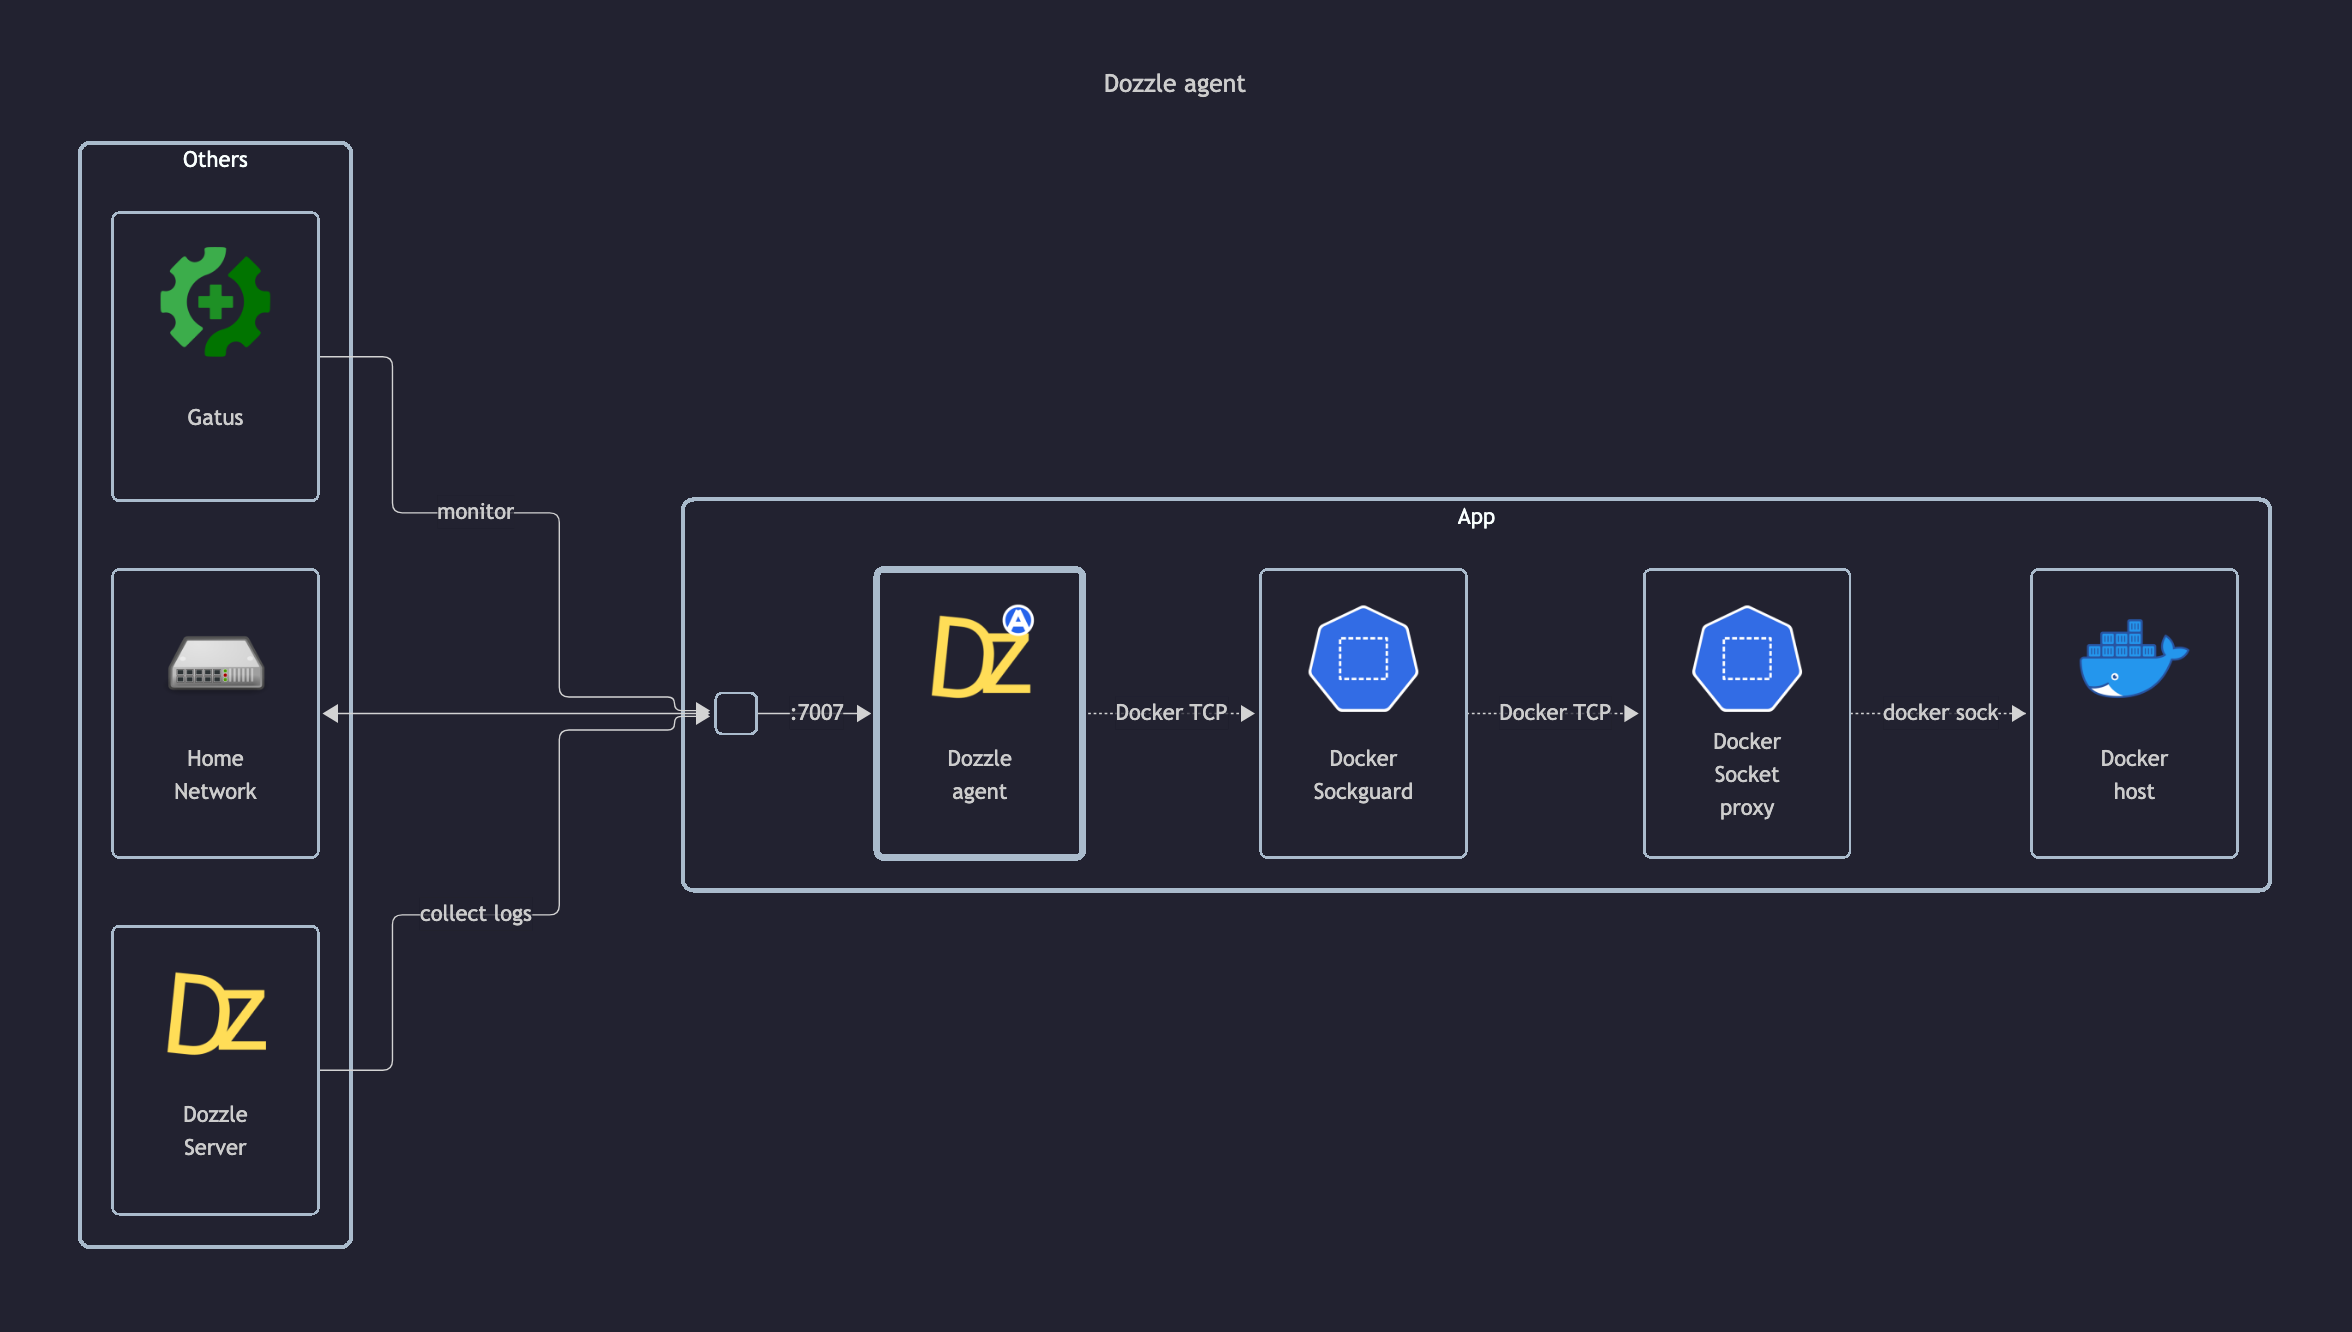
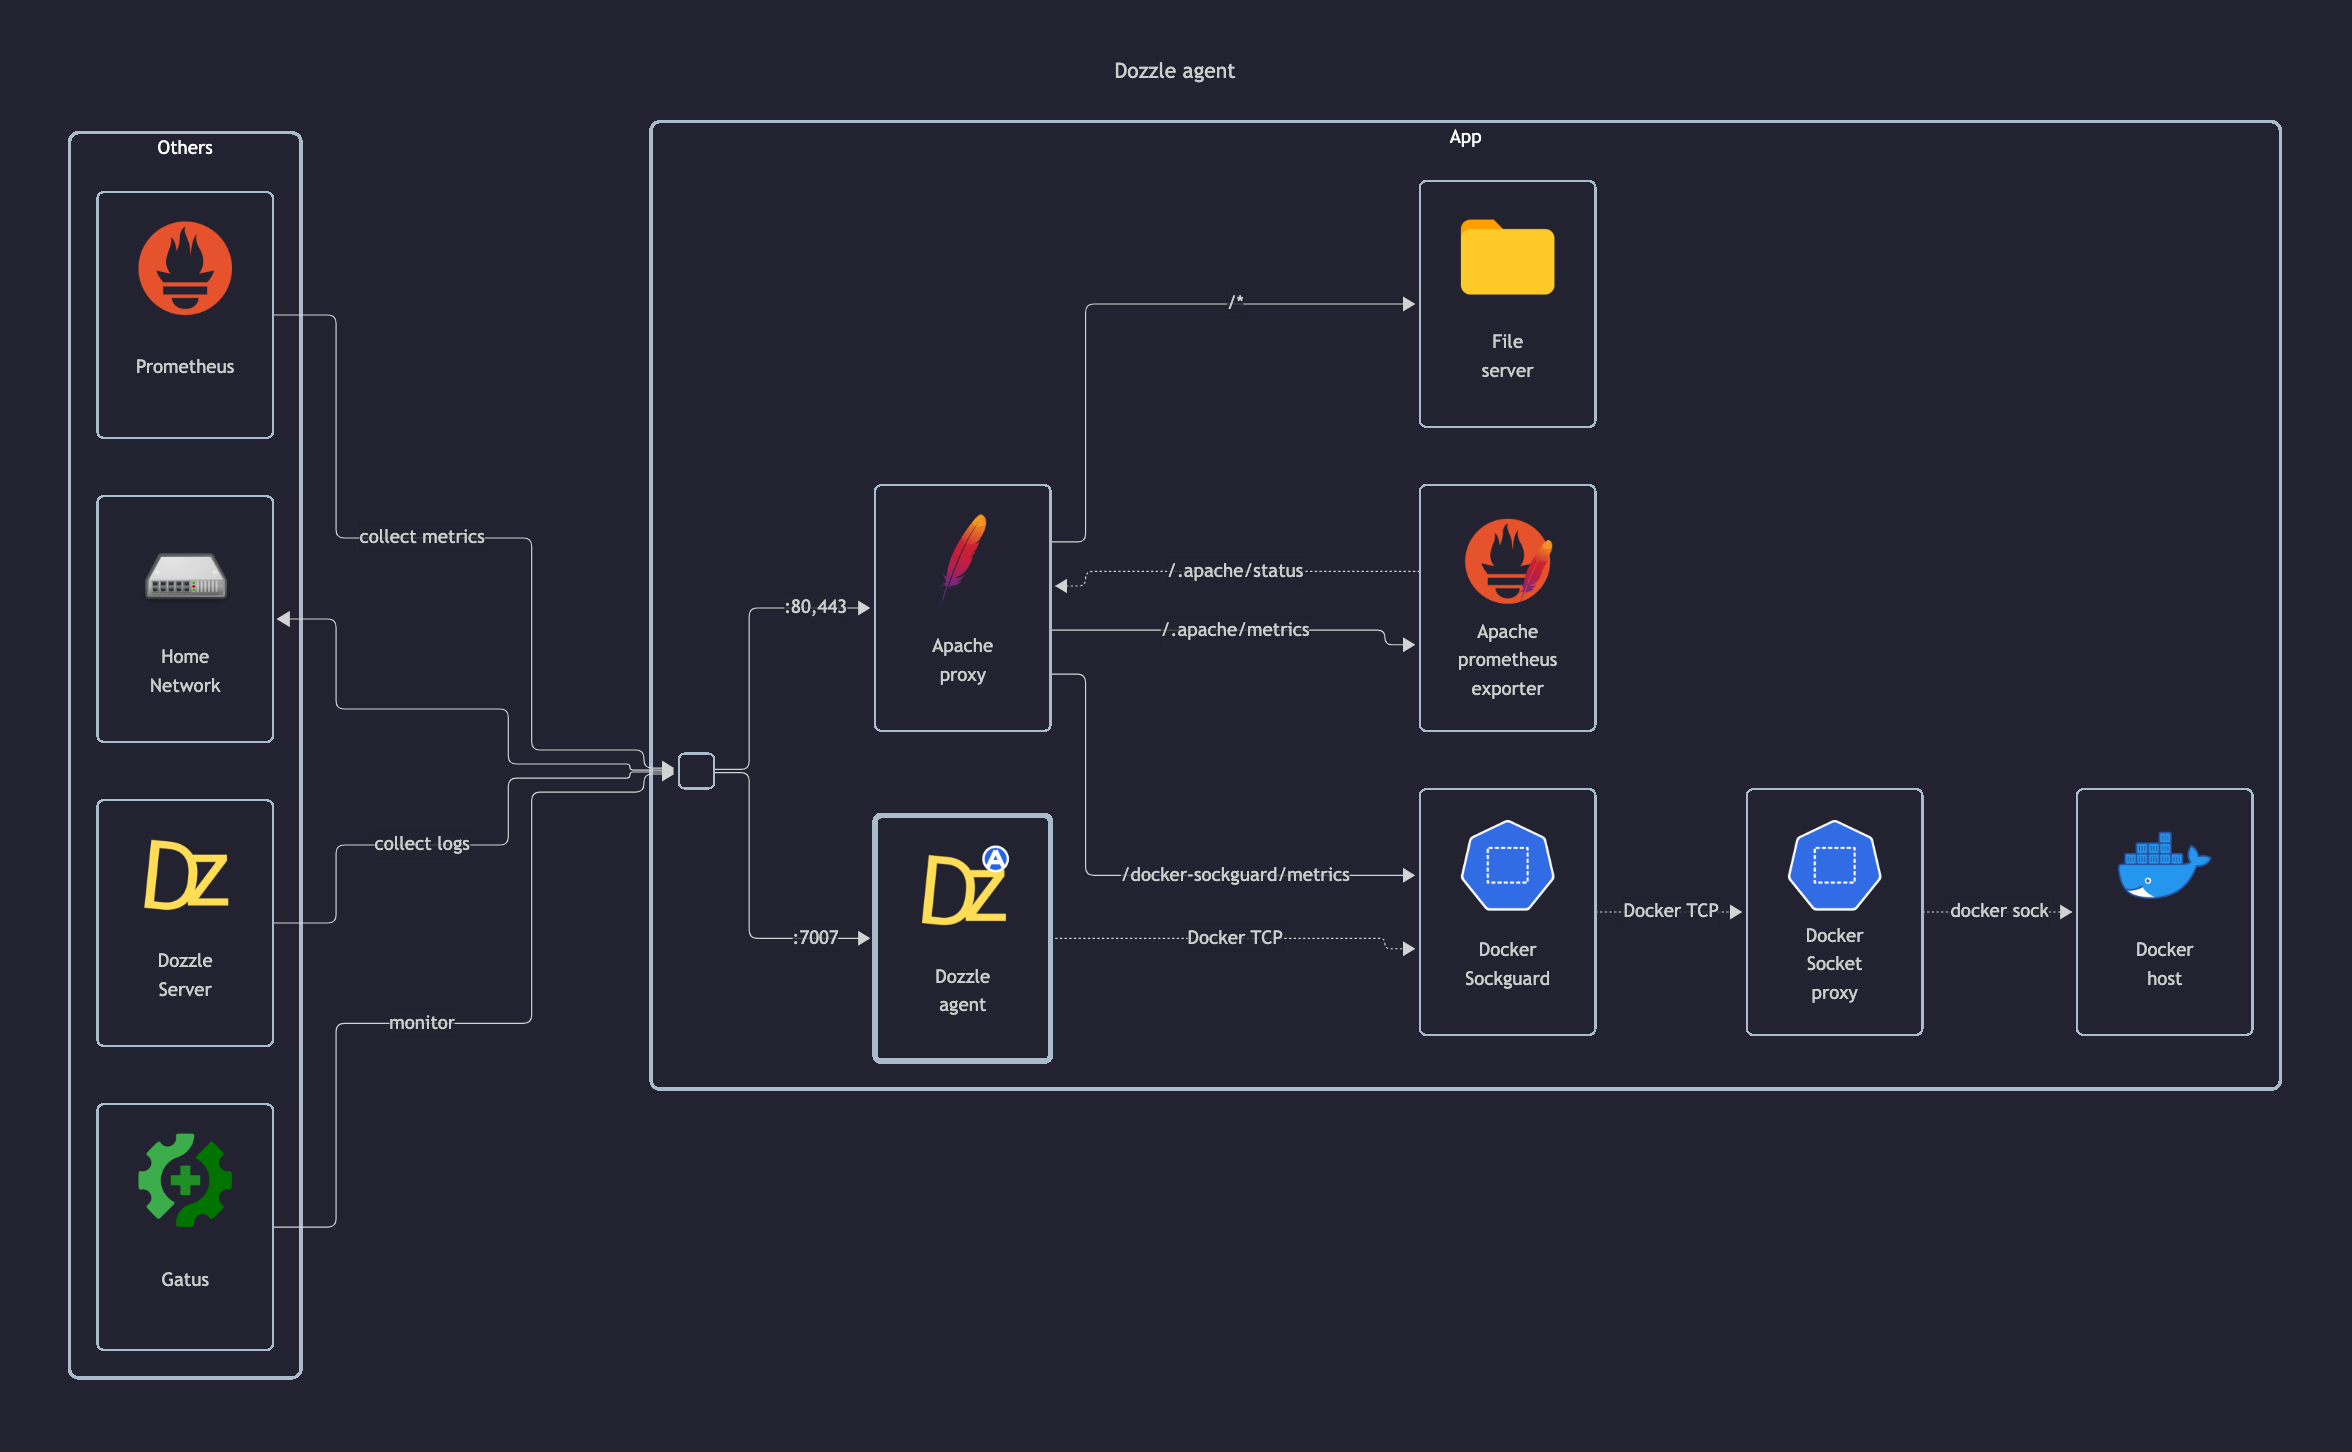
feat: add apache proxy to dozzleagent

diff --git a/tests/projects/tests/dozzle.test.ts b/tests/projects/tests/dozzle.test.ts
@@ -1,7 +1,8 @@
 import { faker } from '@faker-js/faker';
 import { expect, test } from '#/playwright/test.ts';
 import { apps } from '#/utils/apps.ts';
-import { createApiRootTest, createFaviconTests, createHttpToHttpsRedirectTests, createProxyTests, createTcpTests } from '#/utils/tests.ts';
+import { axios } from '#/utils/axios.ts';
+import { createApiRootTest, createFaviconTests, createHttpToHttpsRedirectTests, createPrometheusTests, createProxyTests, createTcpTests, sharedMetrics } from '#/utils/tests.ts';
 import { getEnv } from '#/utils/utils.ts';
 
 const app = apps.dozzle;
@@ -89,7 +90,39 @@ test.describe(agentApp.title, () => {
         }
 
         test.describe(instance.title, () => {
-            createTcpTests(instance.url, 7007);
+            const url = instance.url.replace('tcp://', 'https://');
+
+            createHttpToHttpsRedirectTests(url);
+            createProxyTests(url);
+            createApiRootTest(url);
+            createTcpTests(url, [80, 443, 7007]);
+            createFaviconTests(url);
+            createPrometheusTests(url, {
+                path: '/docker-sockguard/metrics',
+                token: getEnv(url, 'DOCKER_SOCKGUARD_PROMETHEUS_PASSWORD'),
+            });
+
+            test('API: Docker Sockguard Prometheus metrics content', async () => {
+                const response = await test.step('Request metrics', async () => {
+                    const response = await axios.get(`${url}/docker-sockguard/metrics`, {
+                        auth: {
+                            username: 'prometheus',
+                            password: getEnv(url, 'DOCKER_SOCKGUARD_PROMETHEUS_PASSWORD'),
+                        },
+                    });
+                    expect(response.status, 'Response status').toStrictEqual(200);
+                    return response;
+                });
+
+                await test.step('Validate metrics', async () => {
+                    const content = response.data as string;
+                    await test.info().attach('docker-sockguard-metrics.txt', { contentType: 'text/plain', body: content });
+                    const lines = content.split('\n');
+                    for (const metric of sharedMetrics.dockerSockguard) {
+                        expect.soft(lines.find((line) => new RegExp(`^${metric}(?:[{ ]|$)`).test(line)), `Metric ${metric} should be present`).toBeDefined();
+                    }
+                });
+            });
         });
     }
 });
